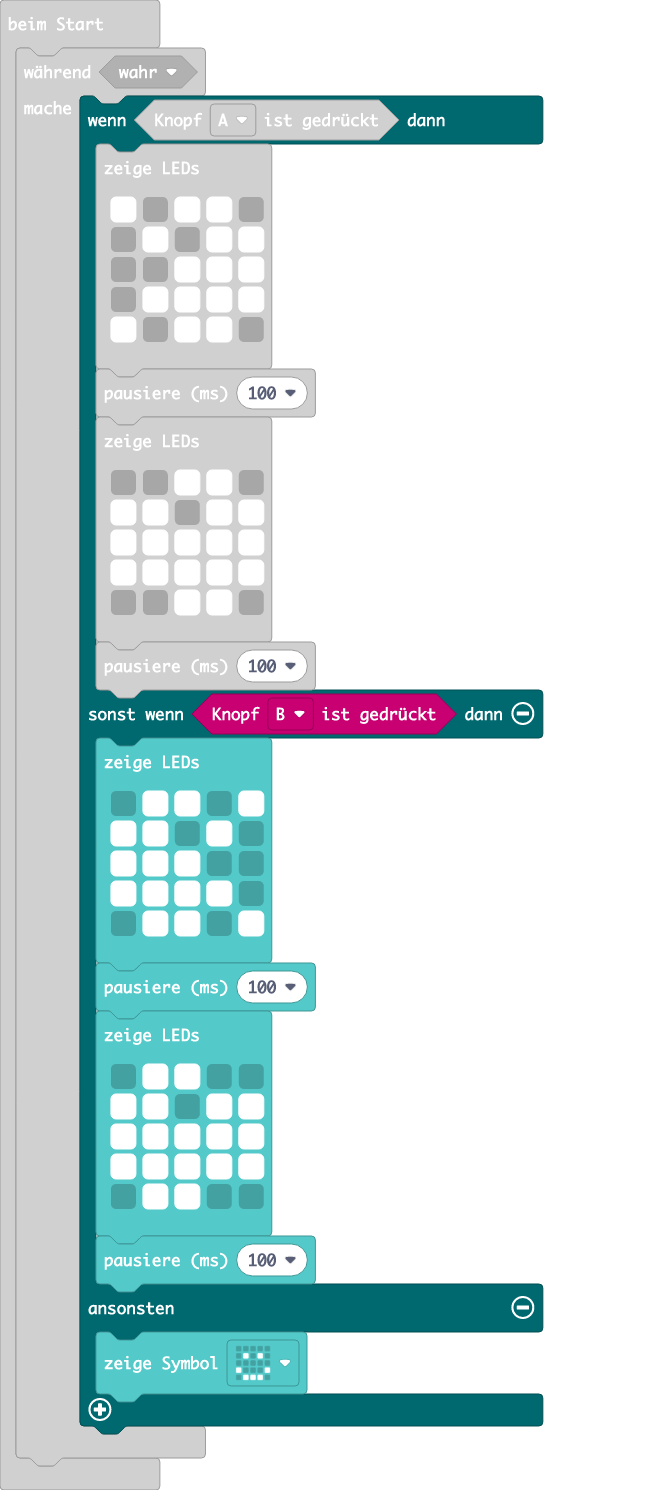
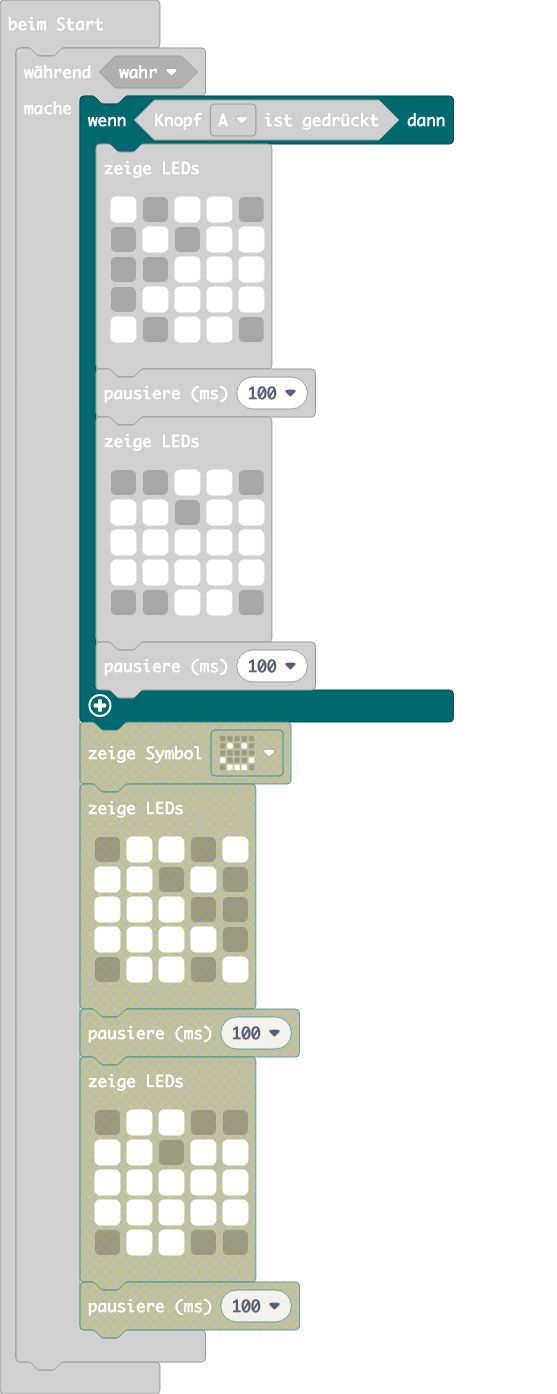
Aktualisiere main.blocks, main.ts

diff --git a/main.ts b/main.ts
@@ -16,24 +16,5 @@ while (true) {
             . . # # .
             `)
         basic.pause(100)
-    } else if (input.buttonIsPressed(Button.B)) {
-        basic.showLeds(`
-            . # # . #
-            # # . # .
-            # # # . .
-            # # # # .
-            . # # . #
-            `)
-        basic.pause(100)
-        basic.showLeds(`
-            . # # . .
-            # # . # #
-            # # # # #
-            # # # # #
-            . # # . .
-            `)
-        basic.pause(100)
-    } else {
-        basic.showIcon(IconNames.Happy)
     }
 }
